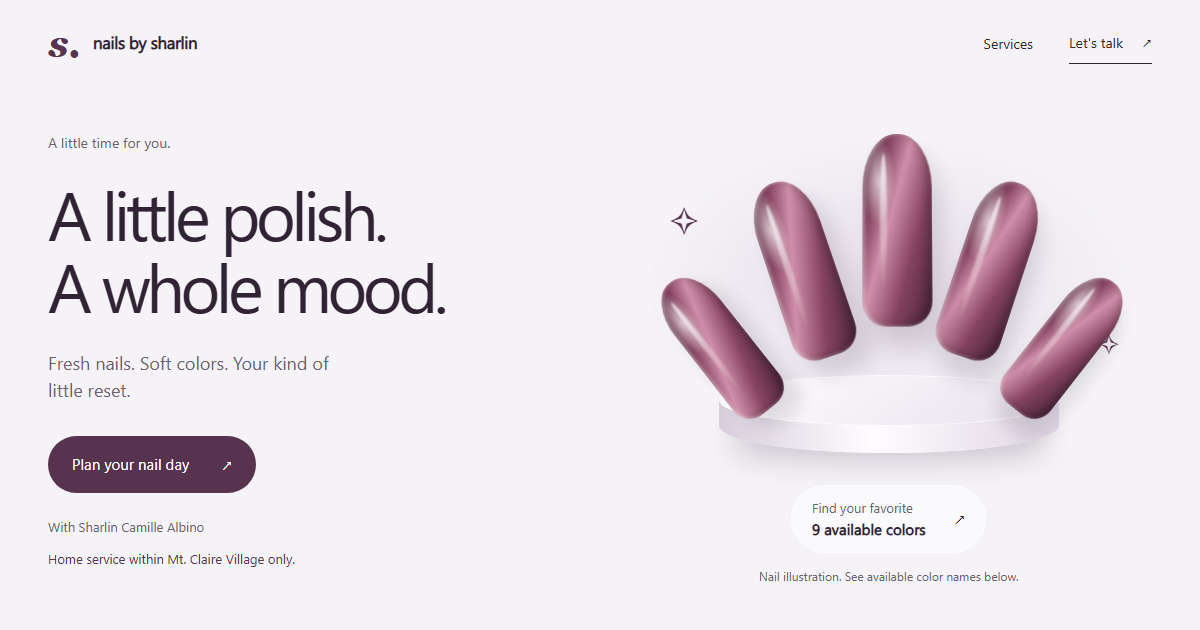
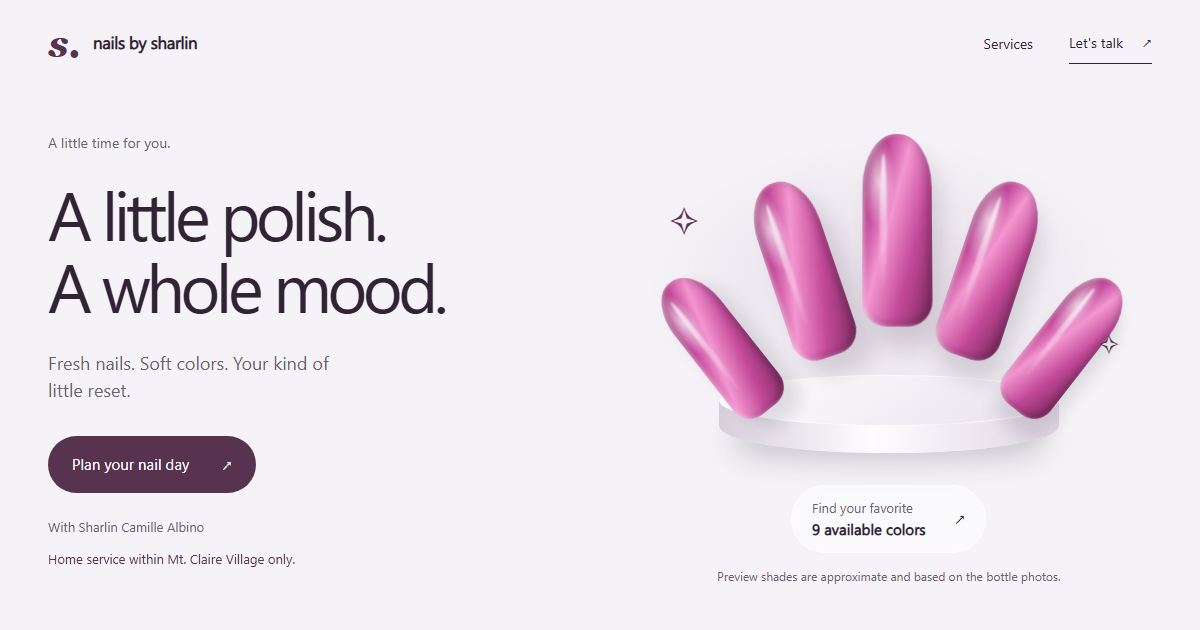
Add photo-referenced color dots and interactive 3D nail previews

Changed region(s): [[0.555, 0.2111, 0.9558, 0.6635], [0.5858, 0.9048, 0.8942, 0.9349]]

diff --git a/index.html b/index.html
@@ -10,8 +10,8 @@
   <meta property="og:type" content="website">
   <meta property="og:site_name" content="Nails by Sharlin">
   <meta property="og:url" content="https://nails-by-sharlin.vercel.app/">
-  <meta property="og:image" content="https://nails-by-sharlin.vercel.app/assets/hero-preview.png?v=3">
-  <meta property="og:image:secure_url" content="https://nails-by-sharlin.vercel.app/assets/hero-preview.png?v=3">
+  <meta property="og:image" content="https://nails-by-sharlin.vercel.app/assets/hero-preview.png?v=4">
+  <meta property="og:image:secure_url" content="https://nails-by-sharlin.vercel.app/assets/hero-preview.png?v=4">
   <meta property="og:image:type" content="image/png">
   <meta property="og:image:width" content="1200">
   <meta property="og:image:height" content="630">
@@ -19,7 +19,7 @@
   <meta name="twitter:card" content="summary_large_image">
   <meta name="twitter:title" content="Nails by Sharlin | A little polish. A whole mood.">
   <meta name="twitter:description" content="Nail services at Generoso Sari-Sari Store, Phase 2, Mt. Claire Village. Home service within Mt. Claire Village only.">
-  <meta name="twitter:image" content="https://nails-by-sharlin.vercel.app/assets/hero-preview.png?v=3">
+  <meta name="twitter:image" content="https://nails-by-sharlin.vercel.app/assets/hero-preview.png?v=4">
   <link rel="canonical" href="https://nails-by-sharlin.vercel.app/">
   <title>Nails by Sharlin | Nail services</title>
   <link rel="icon" href="./favicon.svg" type="image/svg+xml">
@@ -49,7 +49,7 @@
           <div class="pedestal"></div><span class="spark spark-1">✧</span><span class="spark spark-2">✧</span>
         </div>
         <a class="palette" href="#colors"><p>Find your favorite <span>9 available colors</span></p><span aria-hidden="true">↗</span></a>
-        <p class="visual-note">Nail illustration. See available color names below.</p>
+        <p class="visual-note">Preview shades are approximate and based on the bottle photos.</p>
       </div>
     </section>
     <section class="services wrap" id="services" aria-labelledby="services-title">
@@ -61,7 +61,7 @@
         <a class="service" href="#contact" data-service="Foot Spa + Pedicure"><span class="service-symbol" aria-hidden="true">≈</span><div><h3>Foot spa + pedicure</h3><p>Care for your feet and toes.</p></div><span class="price">₱300</span><span class="service-arrow" aria-hidden="true">↗</span></a>
         <a class="service" href="#contact" data-service="Manicure + Pedicure + Foot Spa"><span class="service-symbol" aria-hidden="true">✧</span><div><h3>All three</h3><p>Manicure + pedicure + foot spa.</p></div><span class="price">₱400</span><span class="service-arrow" aria-hidden="true">↗</span></a>
       </div>
-      <div class="color-menu" id="colors"><h3>Available colors</h3><p>Pick a color to include in your inquiry.</p><div class="color-options" role="group" aria-label="Available nail colors"><button type="button" data-color="Banana boat" aria-pressed="false">Banana boat</button><button type="button" data-color="Lucky red" aria-pressed="false">Lucky red</button><button type="button" data-color="Blue suede" aria-pressed="false">Blue suede</button><button type="button" data-color="Ashley" aria-pressed="false">Ashley</button><button type="button" data-color="White satin" aria-pressed="false">White satin</button><button type="button" data-color="Touch of tan" aria-pressed="false">Touch of tan</button><button type="button" data-color="Almond" aria-pressed="false">Almond</button><button type="button" data-color="Chic" aria-pressed="false">Chic</button><button type="button" data-color="Pure black" aria-pressed="false">Pure black</button></div></div>
+      <div class="color-menu" id="colors"><h3>Available colors</h3><p>Pick a color to preview it and include it in your inquiry. Actual shades may vary with lighting and your screen.</p><div class="color-display"><div class="color-options" role="group" aria-label="Available nail colors"><button type="button" data-color="Banana boat" aria-pressed="false">Banana boat</button><button type="button" data-color="Lucky red" aria-pressed="false">Lucky red</button><button type="button" data-color="Blue suede" aria-pressed="false">Blue suede</button><button type="button" data-color="Ashley" aria-pressed="false">Ashley</button><button type="button" data-color="White satin" aria-pressed="false">White satin</button><button type="button" data-color="Touch of tan" aria-pressed="false">Touch of tan</button><button type="button" data-color="Almond" aria-pressed="false">Almond</button><button type="button" data-color="Chic" aria-pressed="false">Chic</button><button type="button" data-color="Pure black" aria-pressed="false">Pure black</button></div><div class="color-preview"><div class="sculpture" aria-hidden="true"><div class="nail-fan"><div class="nail nail-1"></div><div class="nail nail-2"></div><div class="nail nail-3"></div><div class="nail nail-4"></div><div class="nail nail-5"></div></div><div class="pedestal"></div></div><p class="color-preview-name" id="color-preview-name" role="status">Preview: Chic</p></div></div></div>
     </section>
     <section class="contact wrap" id="contact" aria-labelledby="contact-title">
       <div class="contact-copy"><p class="intro">Your next little reset</p><h2 id="contact-title">Let's make it<br>a nail day.</h2><p>Visit Sharlin at <strong>Generoso Sari-Sari Store</strong>,<br>Phase 2, Mt. Claire Village.</p><p><strong>Prefer to stay home?</strong><br>Home service is available within Mt. Claire Village only. Message Sharlin to arrange your visit.</p><a class="phone" href="tel:+639635091844">+63 963 509 1844 <span aria-hidden="true">↗</span></a></div>

diff --git a/script.js b/script.js
@@ -3,6 +3,31 @@ const textLink = document.querySelector('#text-link');
 const preview = document.querySelector('#message-preview');
 const visit = document.querySelector('#visit-select');
 const color = document.querySelector('#color-select');
+// Approximate digital shades based on Camille's supplied bottle photos.
+const colorShades = {
+  'Banana boat': ['#e2bb06', '#fff16b', '#9e7900'],
+  'Lucky red': ['#ad2924', '#e56957', '#661415'],
+  'Blue suede': ['#a7b3d4', '#e0e6fa', '#6b769b'],
+  'Ashley': ['#9c979b', '#e0dadd', '#62616a'],
+  'White satin': ['#f4f1f3', '#ffffff', '#bdbac4'],
+  'Touch of tan': ['#b68a5d', '#e9c898', '#785035'],
+  'Almond': ['#b8bdb8', '#e5e9df', '#7c847e'],
+  'Chic': ['#c34a99', '#f396d0', '#79285e'],
+  'Pure black': ['#202023', '#62626b', '#08090c']
+};
+Object.entries(colorShades).forEach(([name, shades]) => {
+  const button = [...document.querySelectorAll('[data-color]')].find(item => item.dataset.color === name);
+  button?.style.setProperty('--swatch', shades[0]);
+});
+function updateColorPreview(name) {
+  const shades = colorShades[name] || colorShades.Chic;
+  ['--shade', '--shade-light', '--shade-dark'].forEach((property, index) => {
+    document.documentElement.style.setProperty(property, shades[index]);
+  });
+  document.querySelector('#color-preview-name').textContent = `Preview: ${name || 'Chic'}`;
+}
+updateColorPreview('Chic');
+
 function updateMessage() {
   const location = visit.value === 'home' ? 'for home service within Mt. Claire Village' : 'at Generoso Sari-Sari Store, Phase 2, Mt. Claire Village';
   const message = `Hi Sharlin! I'd like to ask about ${select.value.toLowerCase()} ${location}. ${color.value ? `My color preference is ${color.value}. ` : ""}What schedules are available? Please confirm the final quote. Thank you!`;
@@ -15,6 +40,7 @@ visit.addEventListener('change', updateMessage);
 color.addEventListener('change', updateMessage);
 color.addEventListener('change', syncColorButtons);
 function syncColorButtons() {
+  updateColorPreview(color.value);
   document.querySelectorAll('[data-color]').forEach(button => button.setAttribute('aria-pressed', String(button.dataset.color === color.value)));
 }
 updateMessage();

diff --git a/style.css b/style.css
@@ -14,3 +14,7 @@
 
 
 .color-menu{margin-top:44px}.color-menu h3{font-size:23px;font-weight:500;margin:0}.color-menu>p{font-size:14px;color:var(--muted);margin:8px 0 18px}.color-options{display:flex;flex-wrap:wrap;gap:10px}.color-options button{border:1px solid var(--line);border-radius:24px;padding:12px 18px;min-height:44px;background:var(--white);color:var(--ink);font-size:14px}.color-options button[aria-pressed=true]{background:var(--plum);color:var(--white);border-color:var(--plum)}.color-options button:hover{border-color:var(--plum)}
+
+.color-display{display:grid;grid-template-columns:minmax(0,1fr) 340px;gap:32px;align-items:center}.color-options{align-content:center}.color-options button{display:inline-flex;align-items:center;gap:10px}.color-options button:before{content:'';width:24px;height:24px;flex:0 0 24px;border-radius:50%;background:var(--swatch);border:1px solid #30233330;box-shadow:inset 0 2px 3px #ffffff66}.color-options button[aria-pressed=true]:before{border-color:#ffffff70}.color-preview{text-align:center;min-width:0}.color-preview .sculpture{height:260px;width:100%;transform:none;margin:0;overflow:clip}.color-preview .nail-fan{top:-22px;transform:translateX(-50%) rotateX(8deg) scale(.61)}.color-preview .pedestal{width:260px;height:60px;bottom:20px}.color-preview-name{margin:0;color:var(--plum);font-size:15px;font-weight:600}
+@media(max-width:850px){.color-display{grid-template-columns:minmax(0,1fr) 280px;gap:16px}}
+@media(max-width:700px){.color-display{grid-template-columns:1fr}.color-preview{width:min(340px,100%);justify-self:center}.color-preview .sculpture{height:260px}.color-options{gap:8px}.color-options button{padding:10px 14px}}

diff --git a/README.md b/README.md
@@ -18,7 +18,7 @@ From this directory, run `python -m http.server 4175`, then visit `http://localh
 
 Edit service descriptions, prices and contact details in `index.html`. Update the phone number and SMS message in `script.js` as well when changing the contact number. Visual tokens and color previews are in `style.css`.
 
-The decorative nail illustration is not an exact color sample or a photograph of Sharlin's work. Actual available colors are listed by their supplied names; precise visual swatches have not been provided. The supplied location is Generoso Sari-Sari Store, Phase 2, Mt. Claire Village. Home service is available within Mt. Claire Village only. No home-service fee, opening hours or testimonials have been supplied. Sharlin confirms visit details, availability and final pricing directly. Facebook: https://www.facebook.com/sharlinemae.albino.71.
+The decorative nail illustration is not an exact color sample or a photograph of Sharlin's work. The color dots and interactive nail previews use approximate digital shades based on Camille's supplied bottle photos. Actual shades can vary with lighting and display; choosing a color synchronizes the preview and SMS inquiry. The supplied location is Generoso Sari-Sari Store, Phase 2, Mt. Claire Village. Home service is available within Mt. Claire Village only. No home-service fee, opening hours or testimonials have been supplied. Sharlin confirms visit details, availability and final pricing directly. Facebook: https://www.facebook.com/sharlinemae.albino.71.
 
 ## Hosting
 
